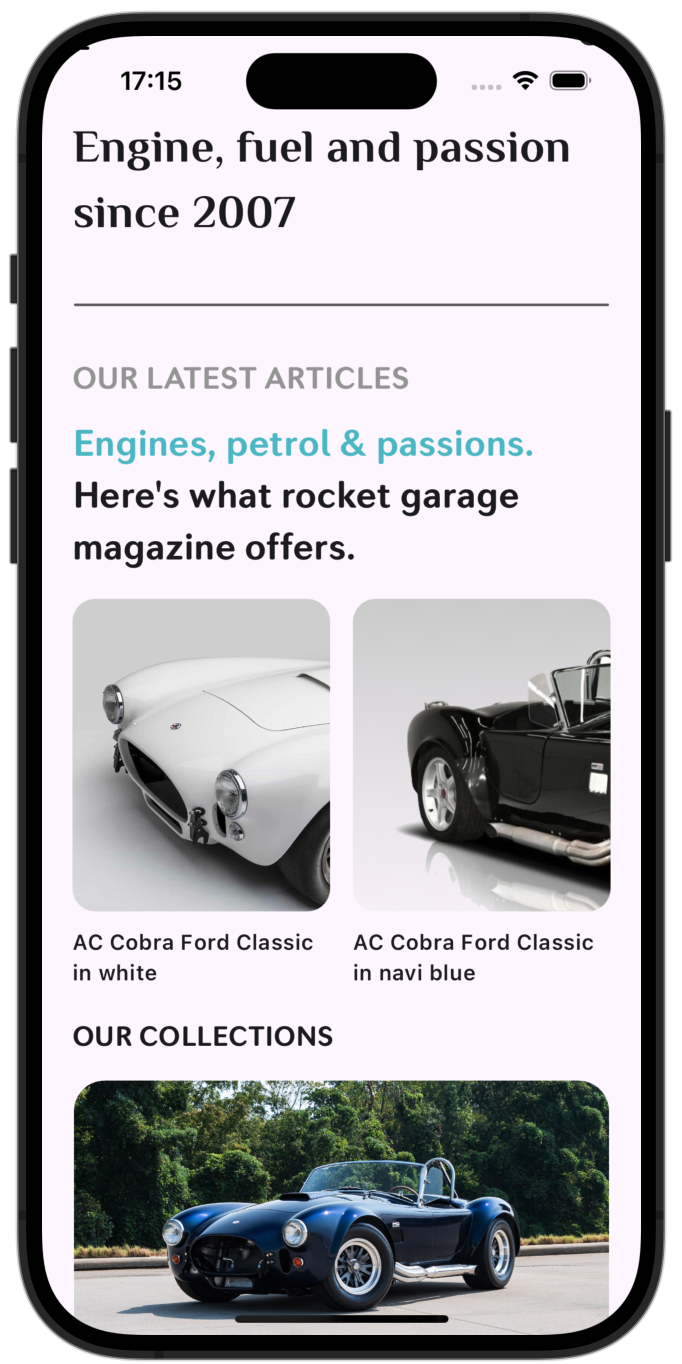
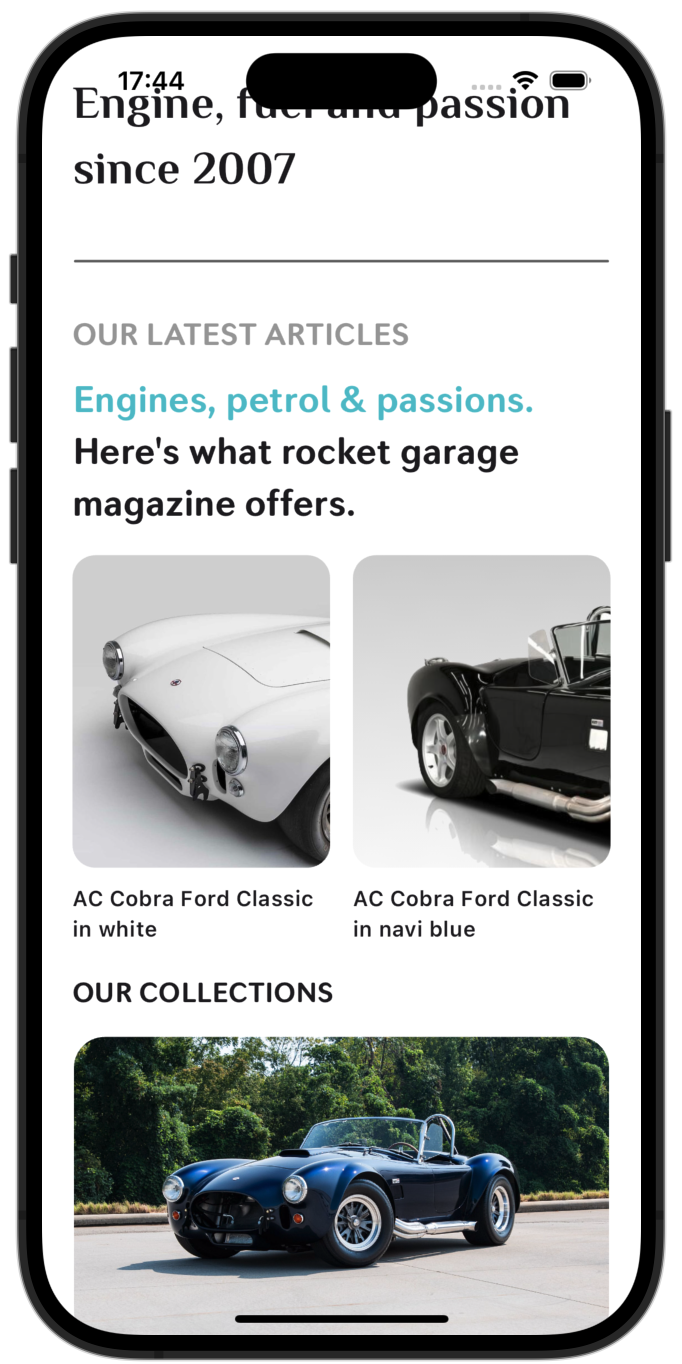
changes

Changed region(s): [[0.0924, 0.2155, 0.893, 0.9853], [0.0924, 0.0308, 0.8314, 0.1848]]

diff --git a/ford/lib/pages/car_details_page.dart b/ford/lib/pages/car_details_page.dart
@@ -14,6 +14,7 @@ class _CarDetailPageState extends State<CarDetailPage> {
   @override
   Widget build(BuildContext context) {
     return Scaffold(
+      backgroundColor: Colors.white,
       body: ListView(
         padding: const EdgeInsets.only(top: 70, bottom: 50),
         children: [

diff --git a/ford/lib/pages/home_page.dart b/ford/lib/pages/home_page.dart
@@ -9,6 +9,7 @@ class HomePage extends StatelessWidget {
   @override
   Widget build(BuildContext context) {
     return Scaffold(
+      backgroundColor: Colors.white,
       body: Padding(
         padding: const EdgeInsets.symmetric(horizontal: 20),
         child: ListView(
